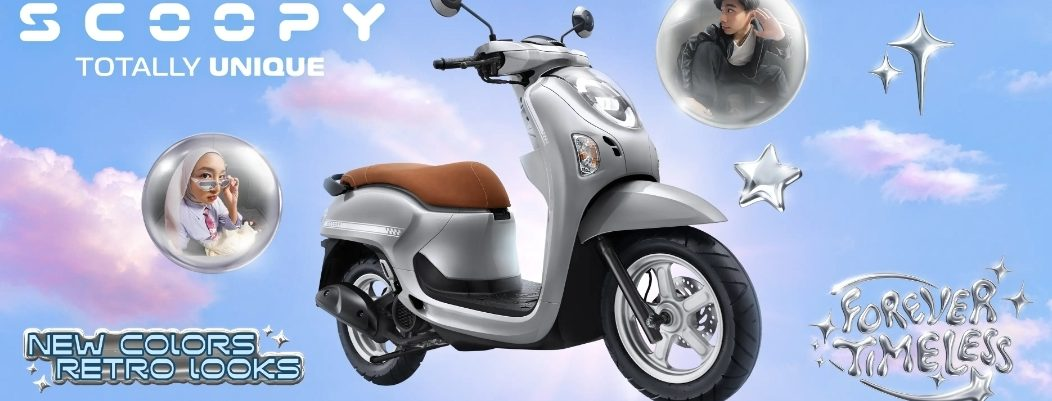
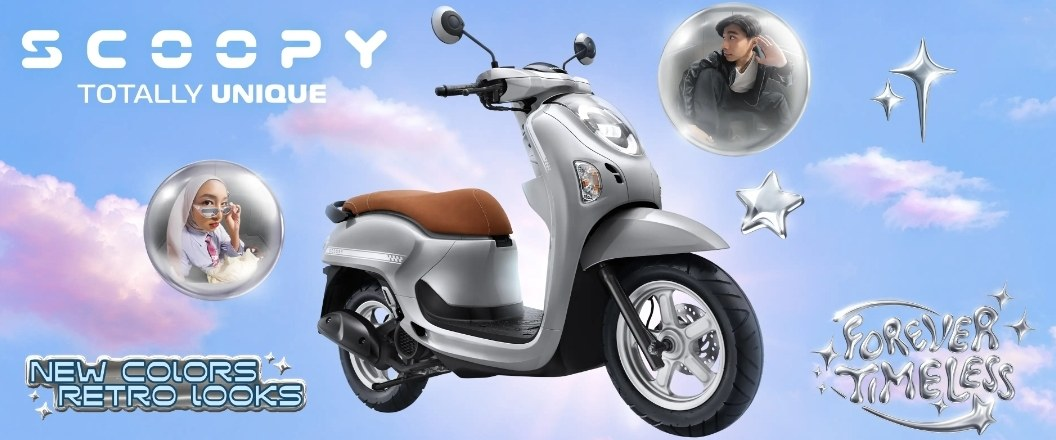
Add files via upload

diff --git a/index.html b/index.html
@@ -817,7 +817,7 @@ body.sp-lock{overflow:hidden}
 <body>
[1 lines of base64/hex data omitted]
 <nav class="nav"><button id="nav-home" onclick="location.hash='#home'">Beranda</button><button id="nav-product" onclick="location.hash='#product'">Katalog Motor</button><button id="nav-simulasi" onclick="location.hash='#simulasi'">Simulasi Kredit</button><button id="nav-promo" onclick="location.hash='#promo'">Promo</button><button id="nav-info" onclick="location.hash='#info'">Info Pembelian</button><button id="nav-tukar" onclick="location.hash='#tukar'">Tukar Tambah</button><button id="nav-tentang" onclick="location.hash='#tentang'">Tentang Kami</button><button id="nav-kontak" onclick="location.hash='#kontak'">Kontak</button></nav><div class="menu-panel" id="menu-panel" role="navigation" aria-label="Menu utama" hidden><button type="button" data-go="home">Beranda</button><button type="button" data-go="product">Katalog Motor</button><button type="button" data-go="simulasi">Simulasi Kredit</button><button type="button" data-go="promo">Promo</button><button type="button" data-go="info">Info Pembelian</button><button type="button" data-go="tukar">Tukar Tambah</button><button type="button" data-go="tentang">Tentang Kami</button><button type="button" data-go="kontak">Kontak</button></div></div>
-<main id="utama"><div id="halaman-home" class="halaman aktif"><section class="bn" id="bn" aria-roledescription="carousel" aria-label="Banner promo dan model Honda"><div class="bn-view"><div class="bn-track" id="bn-track" tabindex="0"><figure class="bn-slide" role="group" aria-roledescription="slide" aria-label="1 dari 9"><img src="banner-1.jpg" width="1080" height="450" alt="Honda Stylo 160 warna baru Royal Violet dan Glam Grey" fetchpriority="high" decoding="async"></figure><figure class="bn-slide" role="group" aria-roledescription="slide" aria-label="2 dari 9"><img src="banner-2.jpg" width="1080" height="457" alt="Honda Genio warna kalcer baru, dunianya Gen Kalcer" loading="lazy" decoding="async"></figure><figure class="bn-slide" role="group" aria-roledescription="slide" aria-label="3 dari 9"><img src="banner-3.jpg" width="1080" height="452" alt="New Honda Vario Evo 160, leave it behind" loading="lazy" decoding="async"></figure><figure class="bn-slide" role="group" aria-roledescription="slide" aria-label="4 dari 9"><img src="banner-4.jpg" width="1080" height="445" alt="Honda BeAT Street, pakai BeAT Street gaya makin nyampe" loading="lazy" decoding="async"></figure><figure class="bn-slide" role="group" aria-roledescription="slide" aria-label="5 dari 9"><img src="banner-5.jpg" width="1080" height="452" alt="Honda BeAT warna striping baru: Infinite Glossy Red Blue dan Jazz Glossy Blue Black" loading="lazy" decoding="async"></figure><figure class="bn-slide" role="group" aria-roledescription="slide" aria-label="6 dari 9"><img src="banner-6.jpg" width="1052" height="401" alt="Honda Scoopy, totally unique, new colors retro looks" loading="lazy" decoding="async"></figure><figure class="bn-slide" role="group" aria-roledescription="slide" aria-label="7 dari 9"><img src="banner-7.jpg" width="997" height="423" alt="Pilihan baru Honda Vario: Sporty, Advance, dan Street" loading="lazy" decoding="async"></figure><figure class="bn-slide" role="group" aria-roledescription="slide" aria-label="8 dari 9"><img src="banner-8.jpg" width="1052" height="419" alt="Honda PCX 160, truly exceptional" loading="lazy" decoding="async"></figure><figure class="bn-slide" role="group" aria-roledescription="slide" aria-label="9 dari 9"><img src="banner-9.jpg" width="999" height="415" alt="Honda ADV 160 dalam pilihan warna merah, cokelat, dan hijau" loading="lazy" decoding="async"></figure></div></div><div class="bn-ctrl"><button type="button" class="bn-nav" id="bn-prev" aria-label="Banner sebelumnya">&lsaquo;</button><div class="bn-dots"><button type="button" class="bn-dot" data-i="0" aria-label="Tampilkan banner 1" aria-current="true"></button><button type="button" class="bn-dot" data-i="1" aria-label="Tampilkan banner 2"></button><button type="button" class="bn-dot" data-i="2" aria-label="Tampilkan banner 3"></button><button type="button" class="bn-dot" data-i="3" aria-label="Tampilkan banner 4"></button><button type="button" class="bn-dot" data-i="4" aria-label="Tampilkan banner 5"></button><button type="button" class="bn-dot" data-i="5" aria-label="Tampilkan banner 6"></button><button type="button" class="bn-dot" data-i="6" aria-label="Tampilkan banner 7"></button><button type="button" class="bn-dot" data-i="7" aria-label="Tampilkan banner 8"></button><button type="button" class="bn-dot" data-i="8" aria-label="Tampilkan banner 9"></button></div><button type="button" class="bn-nav" id="bn-next" aria-label="Banner berikutnya">&rsaquo;</button></div></section><script>
+<main id="utama"><div id="halaman-home" class="halaman aktif"><section class="bn" id="bn" aria-roledescription="carousel" aria-label="Banner promo dan model Honda"><div class="bn-view"><div class="bn-track" id="bn-track" tabindex="0"><figure class="bn-slide" role="group" aria-roledescription="slide" aria-label="1 dari 9"><img src="banner-1.jpg" width="1080" height="450" alt="Honda Stylo 160 warna baru Royal Violet dan Glam Grey" fetchpriority="high" decoding="async"></figure><figure class="bn-slide" role="group" aria-roledescription="slide" aria-label="2 dari 9"><img src="banner-2.jpg" width="1080" height="457" alt="Honda Genio warna kalcer baru, dunianya Gen Kalcer" loading="lazy" decoding="async"></figure><figure class="bn-slide" role="group" aria-roledescription="slide" aria-label="3 dari 9"><img src="banner-3.jpg" width="1080" height="452" alt="New Honda Vario Evo 160, leave it behind" loading="lazy" decoding="async"></figure><figure class="bn-slide" role="group" aria-roledescription="slide" aria-label="4 dari 9"><img src="banner-4.jpg" width="1080" height="445" alt="Honda BeAT Street, pakai BeAT Street gaya makin nyampe" loading="lazy" decoding="async"></figure><figure class="bn-slide" role="group" aria-roledescription="slide" aria-label="5 dari 9"><img src="banner-5.jpg" width="1080" height="452" alt="Honda BeAT warna striping baru: Infinite Glossy Red Blue dan Jazz Glossy Blue Black" loading="lazy" decoding="async"></figure><figure class="bn-slide" role="group" aria-roledescription="slide" aria-label="6 dari 9"><img src="banner-6.jpg" width="1056" height="440" alt="Honda Scoopy, totally unique, new colors retro looks" loading="lazy" decoding="async"></figure><figure class="bn-slide" role="group" aria-roledescription="slide" aria-label="7 dari 9"><img src="banner-7.jpg" width="997" height="423" alt="Pilihan baru Honda Vario: Sporty, Advance, dan Street" loading="lazy" decoding="async"></figure><figure class="bn-slide" role="group" aria-roledescription="slide" aria-label="8 dari 9"><img src="banner-8.jpg" width="1052" height="419" alt="Honda PCX 160, truly exceptional" loading="lazy" decoding="async"></figure><figure class="bn-slide" role="group" aria-roledescription="slide" aria-label="9 dari 9"><img src="banner-9.jpg" width="999" height="415" alt="Honda ADV 160 dalam pilihan warna merah, cokelat, dan hijau" loading="lazy" decoding="async"></figure></div></div><div class="bn-ctrl"><button type="button" class="bn-nav" id="bn-prev" aria-label="Banner sebelumnya">&lsaquo;</button><div class="bn-dots"><button type="button" class="bn-dot" data-i="0" aria-label="Tampilkan banner 1" aria-current="true"></button><button type="button" class="bn-dot" data-i="1" aria-label="Tampilkan banner 2"></button><button type="button" class="bn-dot" data-i="2" aria-label="Tampilkan banner 3"></button><button type="button" class="bn-dot" data-i="3" aria-label="Tampilkan banner 4"></button><button type="button" class="bn-dot" data-i="4" aria-label="Tampilkan banner 5"></button><button type="button" class="bn-dot" data-i="5" aria-label="Tampilkan banner 6"></button><button type="button" class="bn-dot" data-i="6" aria-label="Tampilkan banner 7"></button><button type="button" class="bn-dot" data-i="7" aria-label="Tampilkan banner 8"></button><button type="button" class="bn-dot" data-i="8" aria-label="Tampilkan banner 9"></button></div><button type="button" class="bn-nav" id="bn-next" aria-label="Banner berikutnya">&rsaquo;</button></div></section><script>
 (function(){
   var tr=document.getElementById("bn-track"); if(!tr) return;
   var sec=document.getElementById("bn"), slides=[].slice.call(tr.children), n=slides.length, i=0, timer=null, hold=false, seen=true;
@@ -1684,6 +1684,8 @@ h1,h2,h3,.item .harga,.ug h3{font-family:"Barlow Condensed","Barlow",sans-serif;
 .hc-arrow,.ug-nav{box-shadow:none}
 .item .caption,.badge-kategori,.hero-carousel .hc-hint,.dots em,.sp-badge{font-size:12px}
 .brand small{font-size:11px}
+.hero-carousel .hc-stage::before{display:none!important}
+.hero-carousel .hc-stage{background:linear-gradient(180deg,#fff 68%,#f3f4f6 100%)!important}
 </style>
 </body>
 </html>
